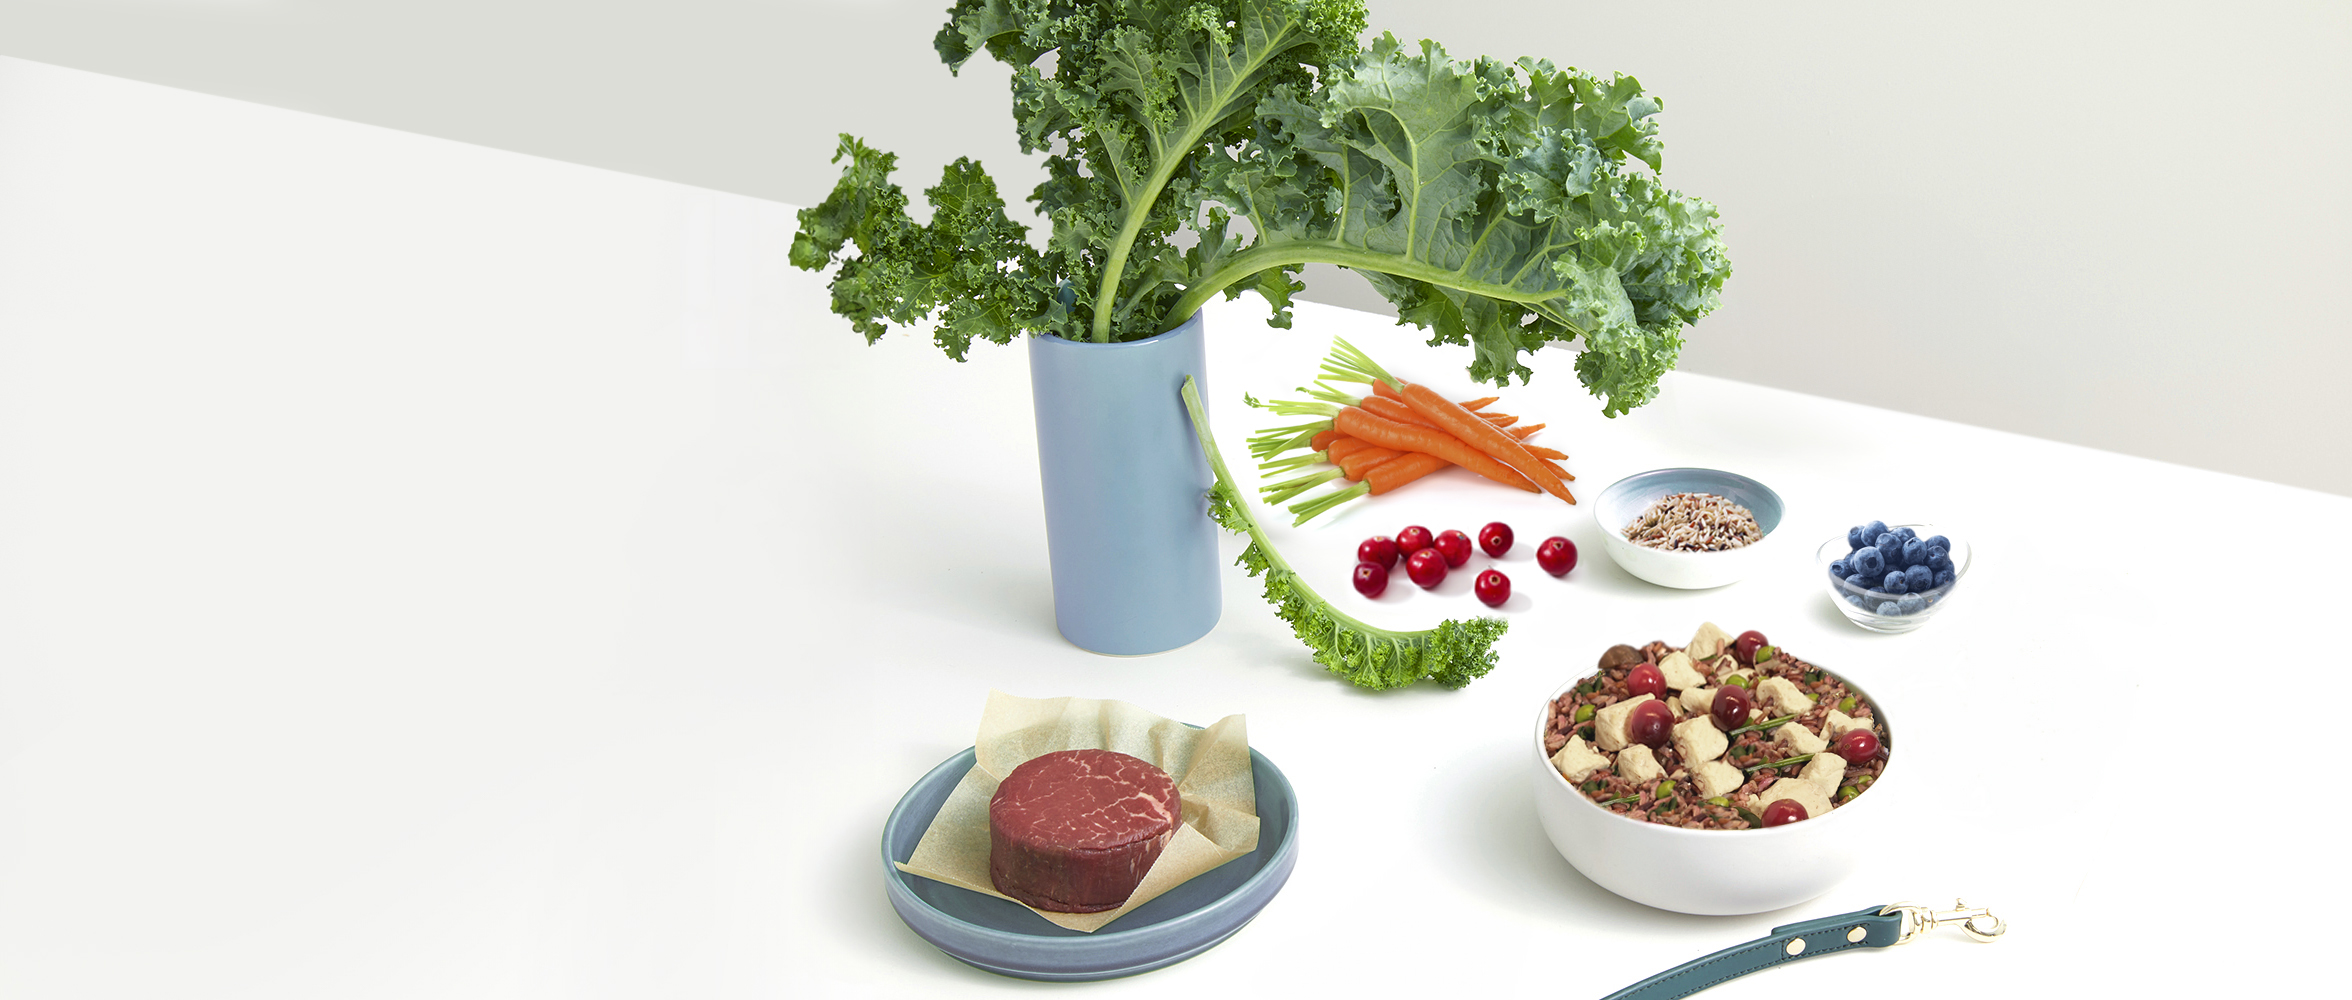
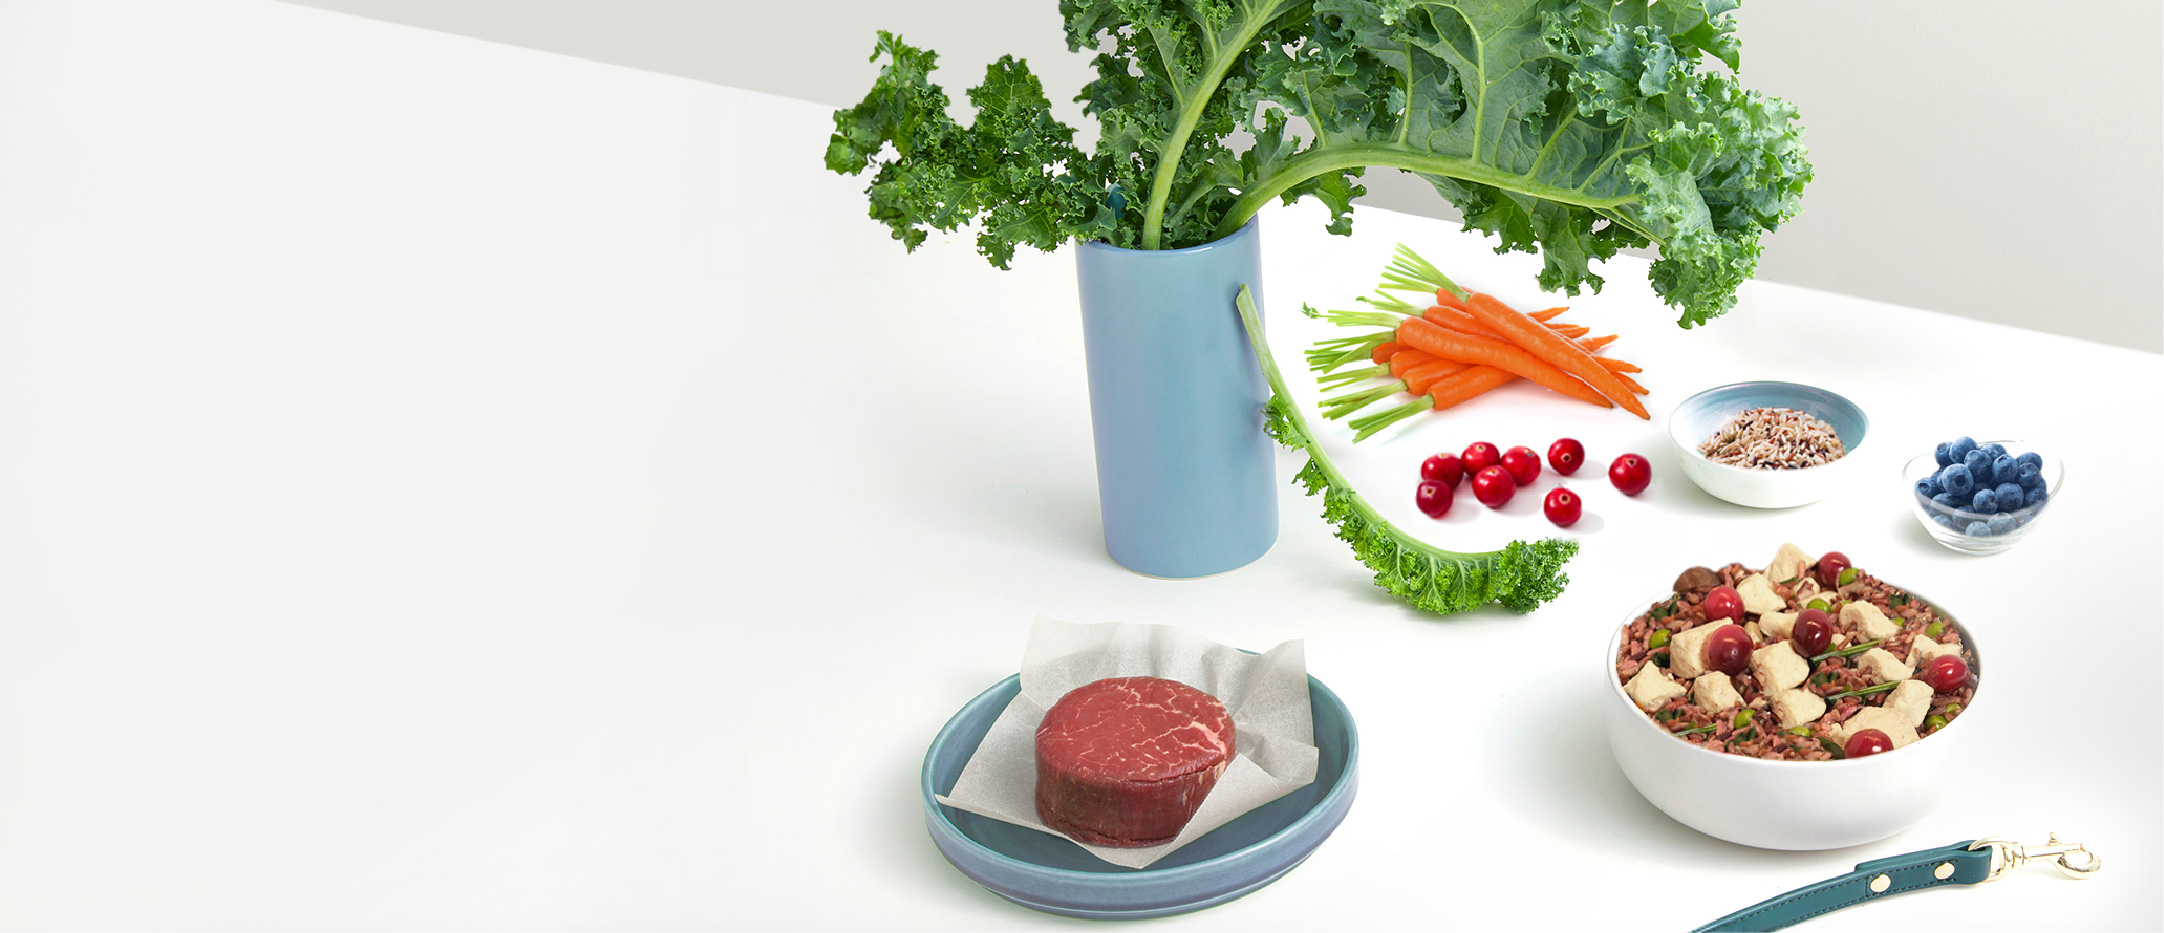
Fix Ocelle_Change Log_Homepage (P001)_v0.22

diff --git a/src/app/[locale]/(main)/page.tsx b/src/app/[locale]/(main)/page.tsx
@@ -1,3 +1,4 @@
+import clsx from 'clsx';
 import { useTranslations } from 'next-intl';
 import Image from 'next/image';
 
@@ -36,26 +37,30 @@ export default function Home() {
       <TwoToneBlock
         breakpoint="lg"
         className={{
-          bgLeft: 'min-h-[500px] bg-[url("./homepage-go-fresh.jpg")] bg-cover bg-[70%] ',
+          bgLeft: clsx(
+            'bg-[#f2f2f0] bg-[url("./homepage-go-fresh.jpg")] bg-[length:auto_100%] bg-[right_top] bg-no-repeat',
+            'max-xl:bg-[right_12%_top]',
+            'max-lg:bg-[url("./homepage-go-fresh-mb.jpg")] max-lg:bg-[length:100%_auto] max-lg:bg-[bottom_20%_center] max-lg:pt-[65%]',
+            'max-xs:bg-[url("./homepage-go-fresh-xs.jpg")] max-xs:bg-cover max-xs:bg-center max-xs:pt-[100%]'
+          ),
           bgRight: 'max-lg:px-4',
         }}
         right={
-          <div className="py-[clamp(30px,3vw,60px)]">
+          <div className="py-tight">
             <h2 className="heading-1 heading-weight-1 text-primary">{t.rich('block-3-title')}</h2>
-            <div className="mt-[2vw]">
-              <List
-                picture={<Tickbox className="mr-4 h-5 w-5" />}
-                className={{ row: 'py-1.5', item: 'body-1' }}
-                items={[
-                  t('block-3-content-1'),
-                  t('block-3-content-2'),
-                  t('block-3-content-3'),
-                  t('block-3-content-4'),
-                  t('block-3-content-5'),
-                ]}
-              />
-            </div>
-            <div className="mb-5 mt-[2vw]"></div>
+            <div className="mt-tight"></div>
+            <List
+              picture={<Tickbox className="mr-4 h-5 w-5" />}
+              className={{ row: 'py-1.5', item: 'body-1' }}
+              items={[
+                t('block-3-content-1'),
+                t('block-3-content-2'),
+                t('block-3-content-3'),
+                t('block-3-content-4'),
+                t('block-3-content-5'),
+              ]}
+            />
+            <div className="mt-tight"></div>
             <div className="flex justify-center lg:justify-start">
               <Button href="/why-fresh/benefits-of-fresh-dog-food">{b('learn-more')}</Button>
             </div>
@@ -222,14 +227,14 @@ export default function Home() {
           <div className="mt-4 text-center">
             <Button href="/get-started">{b('build-my-plan')}</Button>
           </div>
-          <div className="mt-[3vw] max-sm:mt-10"></div>
-          <p className="text-center text-2xl font-normal text-gray">
+          <div className="mt-normal"></div>
+          <p className="heading-3 lg-resize text-center text-gray">
             {t.rich('block-5-content', {
               link: (chunks) => {
                 return (
                   <Link
                     href="/how-it-works/individual-pack"
-                    className="font-normal text-secondary underline hover:underline"
+                    className="text-secondary underline hover:underline"
                   >
                     {chunks}
                   </Link>
@@ -252,12 +257,12 @@ export default function Home() {
           </div>
         </Container>
       </Block>
-      <div className="bg-gold bg-opacity-10 bg-[url('./recommended-plan-bg.jpg')] bg-cover bg-center py-40 max-md:bg-none max-md:py-16">
+      <div className="bg-[#f7e9de] bg-[url('./recommended-plan-bg.jpg')] bg-[length:auto_100%] bg-center bg-no-repeat py-[clamp(120px,10vw,230px)] max-md:bg-primary max-md:bg-opacity-10 max-md:bg-none max-md:px-4 max-md:py-16 max-xs:px-0">
         <Container>
-          <div className="mx-auto max-w-[600px] rounded-[30px] bg-white p-8 py-12 text-center shadow-backdrop sm:p-16 md:px-[8px]">
+          <div className="mx-auto max-w-[600px] rounded-[30px] bg-white p-6 text-center shadow-backdrop max-md:shadow-block">
             <div className="heading-3 heading-weight-2 text-primary">{t('block-7-title')}</div>
             <div className="mt-5"></div>
-            <p className="body-1">{t('block-7-content')}</p>
+            <p className="body-1">{t.rich('block-7-content')}</p>
             <div className="mt-8 text-center">
               <Button href="/get-started">{b('create-your-plan')}</Button>
             </div>

diff --git a/src/app/[locale]/(main)/Picture.tsx b/src/app/[locale]/(main)/Picture.tsx
@@ -20,7 +20,7 @@ export default function Picture() {
     <div className="bg-[#e6e6e6] bg-[url('./banner-bg.svg')] bg-[length:auto_100%] bg-center bg-repeat-x">
       <Container className="max-md:px-0">
         <div className="flex flex-wrap items-center max-md:flex-col-reverse">
-          <div className="relative flex-1 py-[5vw] pr-0 text-primary max-md:w-full max-md:border-t-[10px] max-md:border-primary max-md:p-[30px]">
+          <div className="relative flex-1 pr-0 text-primary max-md:w-full max-md:border-t-[10px] max-md:border-primary max-md:p-[30px]">
             <h1 className="heading-headline heading-weight-1">{t.rich('block-1-title-1')}</h1>
             <div className="my-6"></div>
             <List
@@ -44,7 +44,7 @@ export default function Picture() {
             </div>
           </div>
           <div className="w-[500px] self-end max-xl:w-[375px] max-md:w-full">
-            <div className="w-3/4 overflow-hidden max-xl:w-full max-md:m-auto">
+            <div className="w-3/4 overflow-hidden max-xl:w-full max-md:m-auto max-md:max-w-[450px]">
               <motion.div
                 ref={dogRef}
                 initial={{ opacity: 0, y: 50 }}

diff --git a/src/app/globals.css b/src/app/globals.css
@@ -56,6 +56,10 @@ span.swiper-pagination-bullet-active {
   @apply text-[32px] leading-[40px] -my-[4px];
 }
 
+.heading-3.lg-resize {
+  @apply max-lg:text-[24px] max-lg:leading-[32px]
+}
+
 .heading-4 {
   @apply text-[24px] leading-[32px] -my-[4px];
 }
